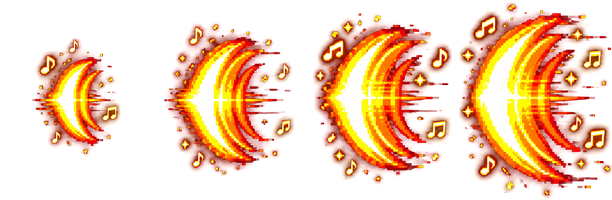
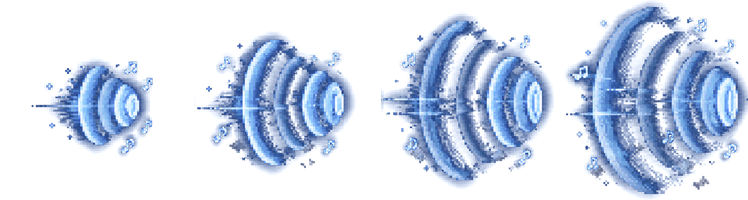
Tentaculo roxo (elo e ponta curva) no poder da Lula; onda de choque azul no paredao do Lemmy e fogo antigo removido da prancha das caixas
Claude-Session: https://claude.ai/code/session_01YU21iq1A5cr81r2vc4qJPp

diff --git a/src/Jogo/Poderes099.java b/src/Jogo/Poderes099.java
@@ -72,7 +72,8 @@ final class Poderes099 {
    java.util.List<double[]> pts=new java.util.ArrayList<>();double ax=rx,ay=ry,acum=0;pts.add(new double[]{rx,ry});
    for(int k=1;k<=80;k++){double p=k/80.0,q=1-p;double sx=q*q*q*rx+3*q*q*p*c1x+3*q*p*p*c2x+p*p*p*tx,sy=q*q*q*ry+3*q*q*p*c1y+3*q*p*p*c2y+p*p*p*ty;acum+=Math.hypot(sx-ax,sy-ay);ax=sx;ay=sy;if(acum>=9){pts.add(new double[]{sx,sy});acum=0;}}
    pts.add(new double[]{tx,ty});
-   for(int k=0;k<pts.size();k++){double[] p=pts.get(k),ant=pts.get(Math.max(0,k-1));double w=6+20*Math.sqrt(1-k/(double)Math.max(1,pts.size()-1));LulaVisual.elo(g,p[0],p[1],Math.atan2(p[1]-ant[1],p[0]-ant[0]),w);}
+   for(int k=0;k<pts.size();k++){double[] p=pts.get(k),ant=pts.get(Math.max(0,k-1));double w=6+20*Math.sqrt(1-k/(double)Math.max(1,pts.size()-1));elo(g,p[0],p[1],Math.atan2(p[1]-ant[1],p[0]-ant[0]),w);}
+   if(!(e>.9&&preso[i])&&pts.size()>1){double[] f1=pts.get(pts.size()-1),f0=pts.get(pts.size()-2);ponta(g,f1[0],f1[1],Math.atan2(f1[1]-f0[1],f1[0]-f0[0]),9);}
    if(e>.9&&preso[i]){
     // Enrolado no alvo: aneis apertando e gotas de energia sendo drenadas de volta para a nave.
     espiral(g,tx,ty,true);
@@ -80,13 +81,27 @@ final class Poderes099 {
    }
   }
  }
+ /** Tentaculo roxo do poder (tentaculo_roxo_elo/ponta.png); sem a arte, usa o elo vermelho da Lula chefe. */
+ private static final java.awt.image.BufferedImage ELO_ROXO=lerArte("tentaculo_roxo_elo.png"),PONTA_ROXA=lerArte("tentaculo_roxo_ponta.png");
+ private static java.awt.image.BufferedImage lerArte(String n){java.net.URL u=Poderes099.class.getResource("/ImagemIcon/"+n);if(u==null)return null;try{return javax.imageio.ImageIO.read(u);}catch(java.io.IOException e){return null;}}
+ private static void elo(Graphics2D g,double x,double y,double angulo,double largura){
+  if(ELO_ROXO==null){LulaVisual.elo(g,x,y,angulo,largura);return;}
+  Graphics2D a=(Graphics2D)g.create();a.translate(x,y);a.rotate(angulo);
+  a.drawImage(ELO_ROXO,-(int)(largura*.6),-(int)(largura*.55),(int)(largura*1.2),(int)(largura*1.1),null);a.dispose();
+ }
+ /** Ponta curva no fim do tentaculo, apontando para onde ele avanca. */
+ private static void ponta(Graphics2D g,double x,double y,double angulo,double largura){
+  if(PONTA_ROXA==null)return;
+  Graphics2D a=(Graphics2D)g.create();a.translate(x,y);a.rotate(angulo);int h=(int)(largura*2.2),w=PONTA_ROXA.getWidth()*h/PONTA_ROXA.getHeight();
+  a.drawImage(PONTA_ROXA,-2,-(int)(h*.62),w,h,null);a.dispose();
+ }
  /** Espiral de 3 voltas em volta do alvo: a metade de tras (frente=false) fica atras do inimigo, a da frente por cima. */
  private void espiral(Graphics2D g,double tx,double ty,boolean frente){
   // elipse mais alta que antes: a volta de tras aparece por cima e por baixo do corpo, entao le como enrolado
   double aperto=1-.1*Math.abs(Math.sin(tempo*5)),rx2=34*aperto,ry2=21*aperto;int passos=90;
   for(int k=0;k<=passos;k++){double a2=-Math.PI/2+k*(3*2*Math.PI)/passos;boolean naFrente=Math.sin(a2)>0;if(naFrente!=frente)continue;
    double ex=tx+Math.cos(a2)*rx2,ey=ty-22+k*44.0/passos+Math.sin(a2)*ry2;double w=(frente?15:12)-k*4.0/passos;
-   LulaVisual.elo(g,ex,ey,a2+Math.PI/2,w);
+   elo(g,ex,ey,a2+Math.PI/2,w);
    if(!frente){g.setColor(new Color(10,0,20,150));g.fillOval((int)(ex-w/2),(int)(ey-w/2),(int)w,(int)w);}}
  }
  /** Desenhado antes dos inimigos: as voltas que passam por tras do corpo agarrado. */
